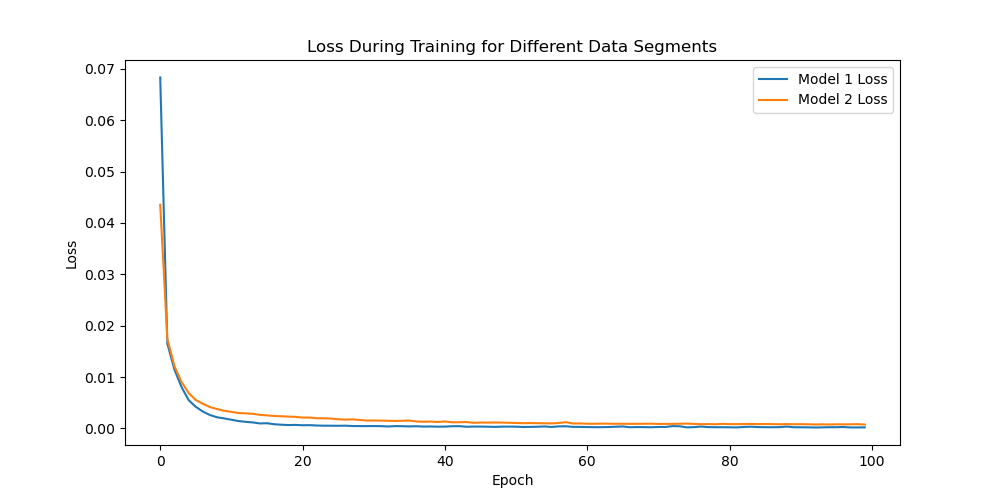
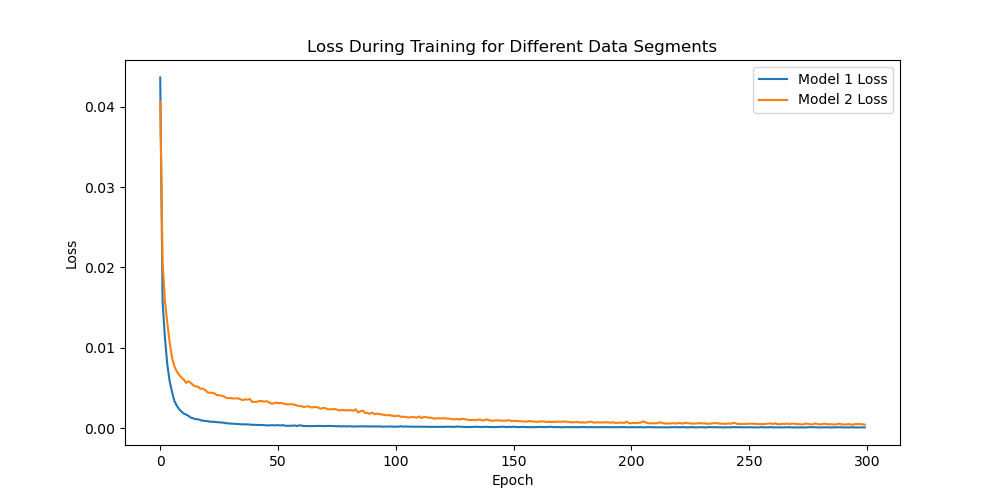
update

diff --git a/Encoder/encoder.py b/Encoder/encoder.py
@@ -30,11 +30,13 @@ class Encoder(nn.Module):
     def __init__(self, input_size, hidden_size, output_size):
         super(Encoder, self).__init__()
         self.fc1 = nn.Linear(input_size, hidden_size)
-        self.fc2 = nn.Linear(hidden_size, output_size)
+        self.fc2 = nn.Linear(hidden_size, hidden_size)
+        self.fc3 = nn.Linear(hidden_size, output_size)
 
     def forward(self, x):
-        x = torch.relu(self.fc1(x))
-        x = torch.relu(self.fc2(x))
+        x = torch.tanh(self.fc1(x))
+        x = torch.tanh(self.fc2(x))
+        x = torch.tanh(self.fc3(x))
         return x
 
 # 初始化模型参数
@@ -49,12 +51,12 @@ data = np.load(data_path)  # 加载.npy文件
 index_vector = [0, 1, 2, 3, 5]
 
 
-original_data_path="original_data1.npy"
+original_data_path="original_data.npy"
 original_data=np.load(original_data_path)
 original_size=original_data.shape[0]
 
 # 分割数据集
-train_data_1 = original_data  # 第一组训练数据
+train_data_1 = data[:original_size]  # 第一组训练数据
 train_data_2 = data[-original_size:]  # 第二组训练数据
 test_data = data[original_size:-original_size]  # 测试数据
 random_indices = np.random.choice(len(test_data), size=500, replace=False)
@@ -103,7 +105,7 @@ test_labels_tensor_2 = torch.tensor(test_labels_2, dtype=torch.float32)
 criterion = nn.MSELoss()
 
 # 训练模型的函数
-def train_model(train_power_sequences, train_labels, num_epochs=100):
+def train_model(train_power_sequences, train_labels, num_epochs=300):
     encoder = Encoder(input_size, hidden_size, output_size)
     optimizer = optim.Adam(encoder.parameters(), lr=0.001)
     dataset = TensorDataset(train_power_sequences, train_labels)
